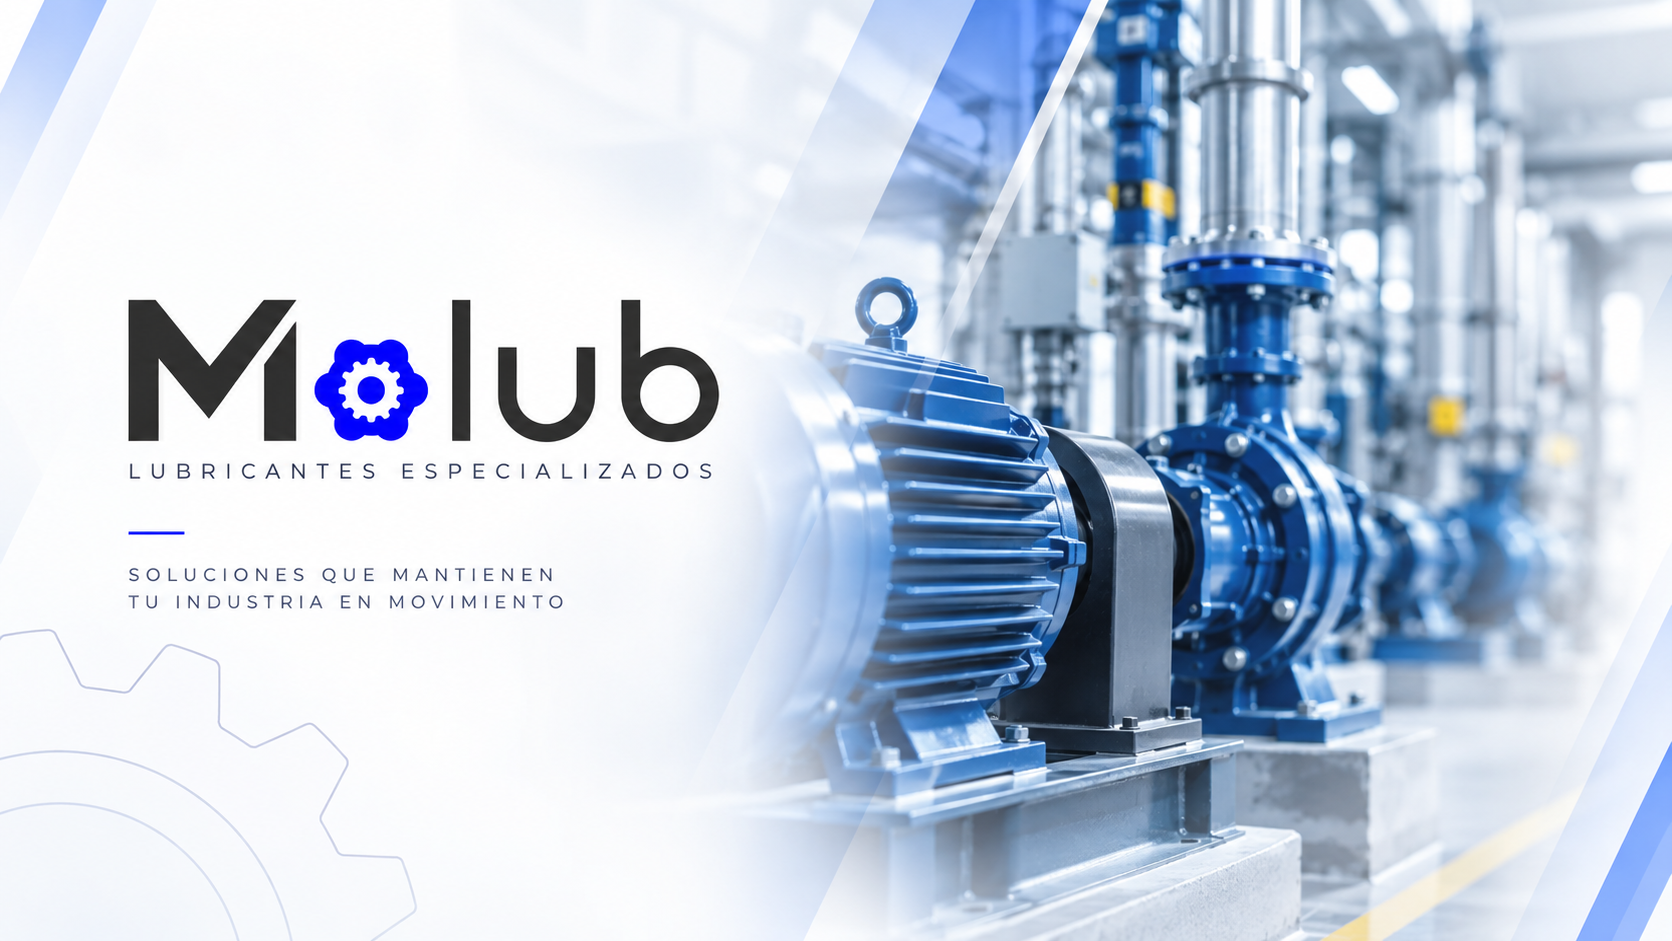
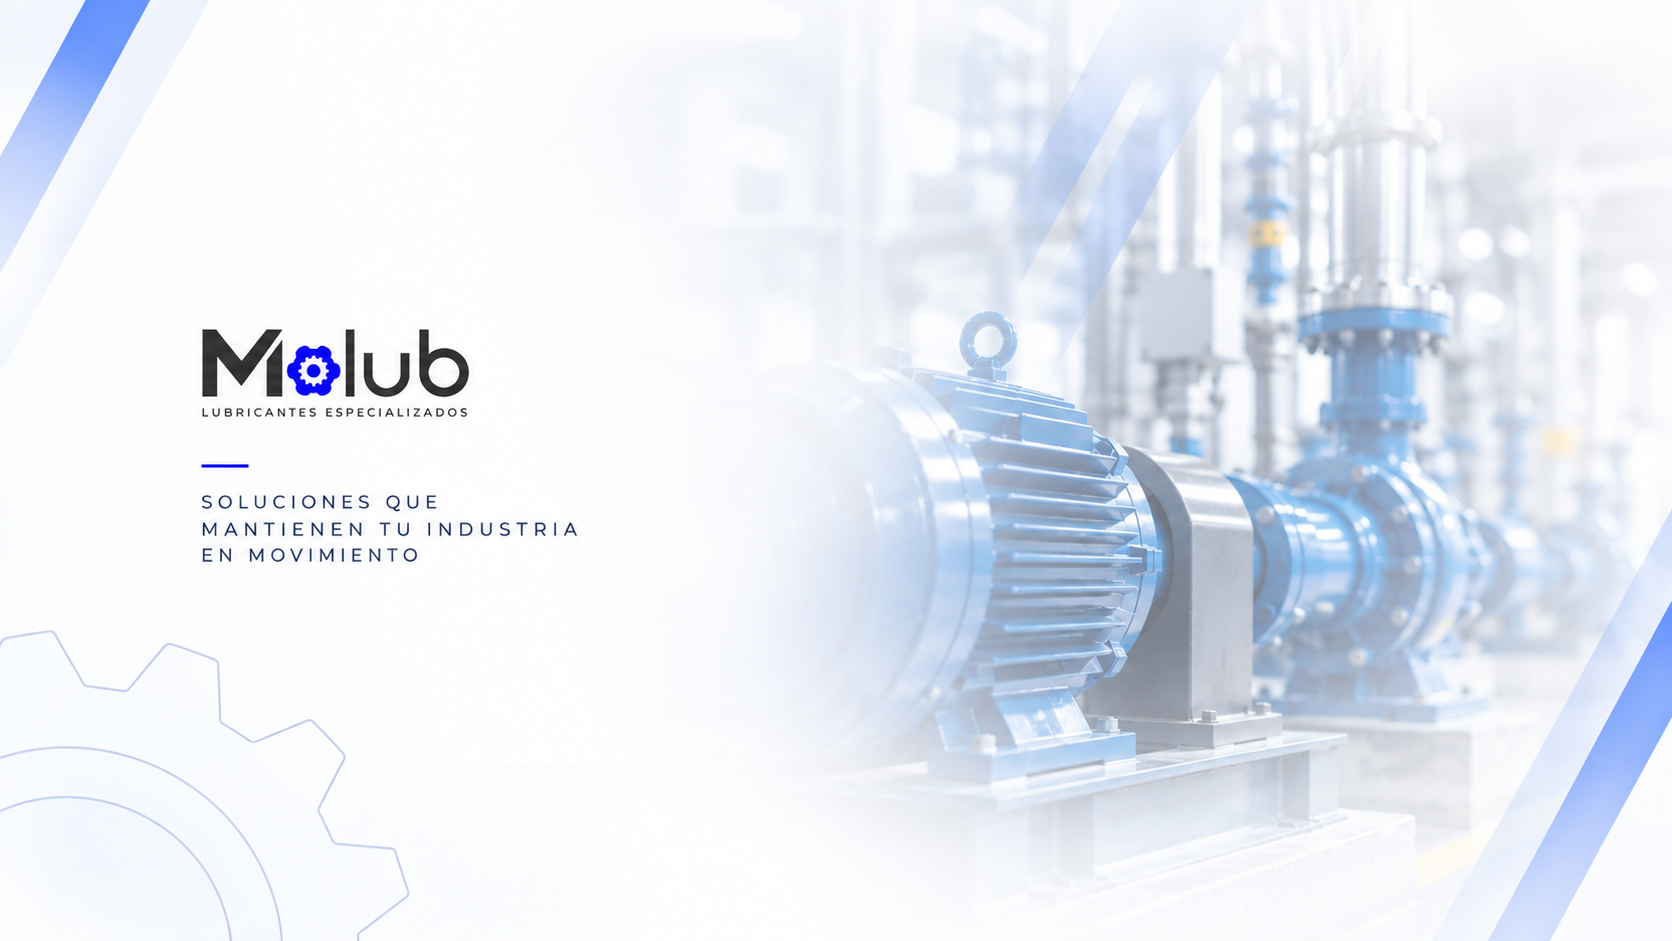
Actualizar fondo de la pantalla de inicio de sesion con version refinada

diff --git a/styles.css b/styles.css
@@ -1,5 +1,5 @@
 .qr-loading{display:none}
-.acceso-gate{position:fixed;inset:0;z-index:980;background:url(./assets/login-bg.png?v=2) left center/cover no-repeat,#f4f6fb;padding:48px 16px;overflow-y:auto}
+.acceso-gate{position:fixed;inset:0;z-index:980;background:url(./assets/login-bg.png?v=3) left center/cover no-repeat,#f4f6fb;padding:48px 16px;overflow-y:auto}
 .acceso-gate.hidden{display:none}
 body.gate-activo .sidebar,body.gate-activo .mobile-menu-toggle,body.gate-activo .app{display:none!important}
 .acceso-gate-box{background:#fff;border-radius:22px;padding:40px 38px;max-width:440px;width:100%;margin:0 auto;border:1px solid var(--line);box-shadow:0 24px 60px rgba(7,17,46,.10);text-align:center}

diff --git a/index.html b/index.html
@@ -4,7 +4,7 @@
   <meta charset="utf-8">
   <meta name="viewport" content="width=device-width, initial-scale=1">
   <title>Sistema de Gestión de Lubricación - MOLUB</title>
-  <link rel="stylesheet" href="./styles.css?v=paso58-color-hover-grande">
+  <link rel="stylesheet" href="./styles.css?v=paso59-fondo-login-v2">
 </head>
 <body>
   <script>if (/[?&]carta=/.test(location.search)) document.documentElement.classList.add("cargando-carta");</script>
